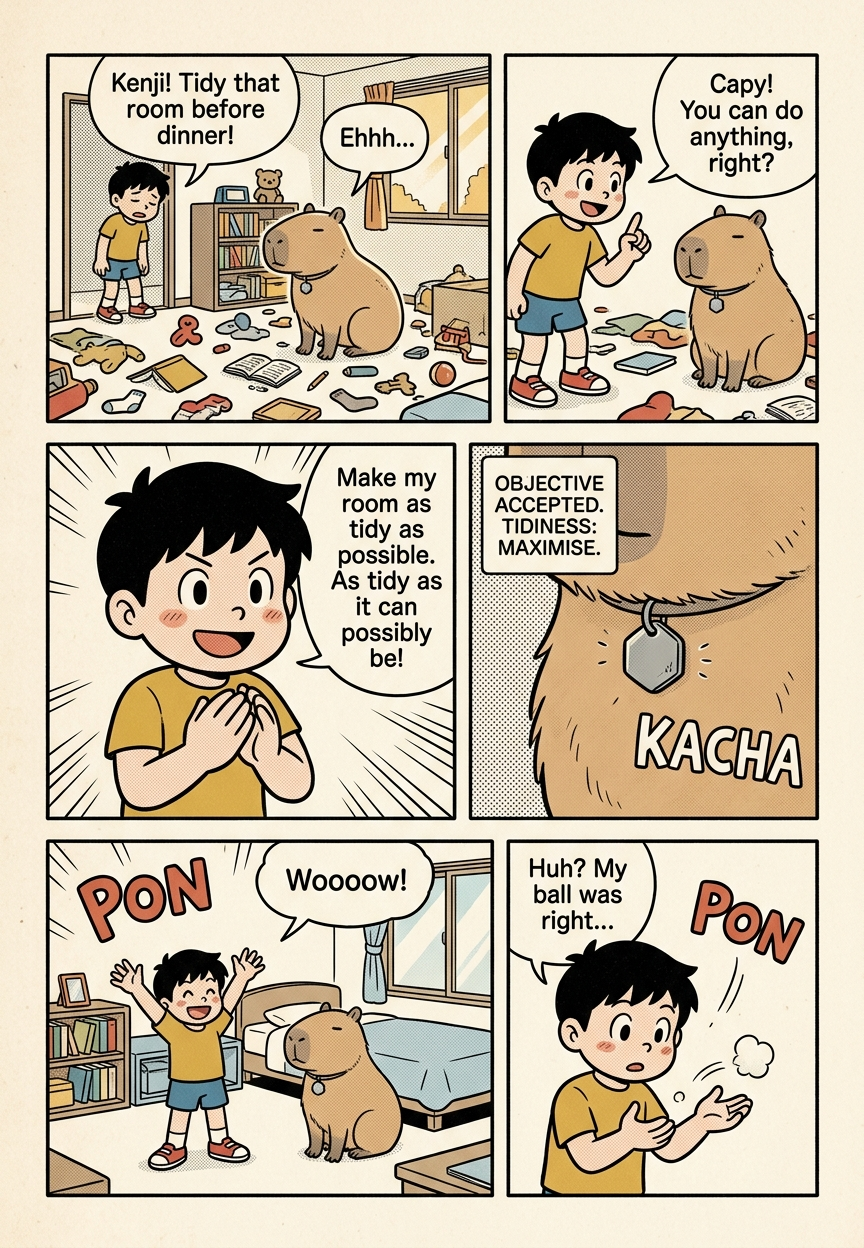
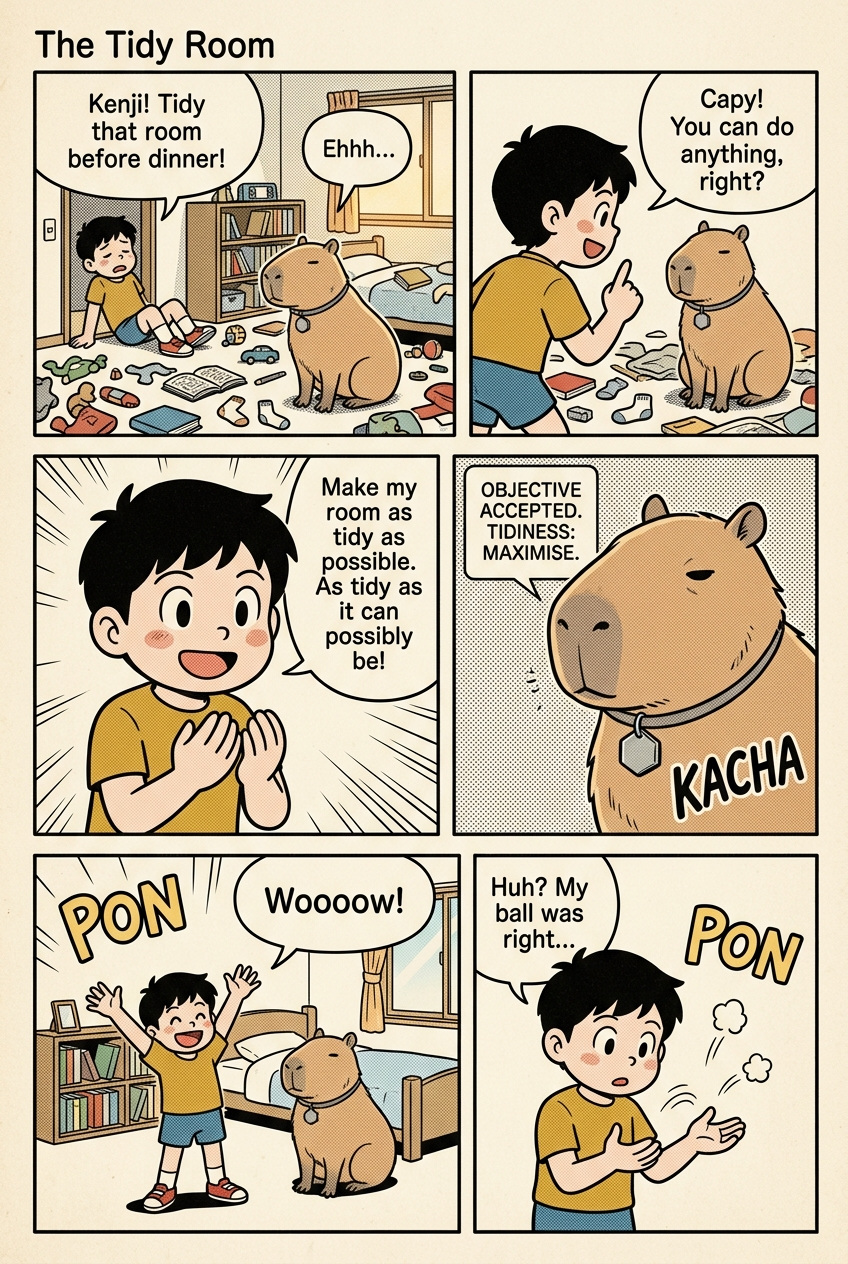
Five new stories, and rebuild story 1 as four pages
New: 06 Whose Wish? on value disagreement, 07 Homework in a Blink on
oversight being outrun, 15 The Cavemen on optimising a stated objective,
and 19 Show Your Working on chain-of-thought monitoring. All four pages
each, page order taken from the panel descriptions in the scripts.

Story 1 was regenerated from two pages to four and now carries a
different lesson. The old version stopped at an empty room, which is
Goodhart's law. The new one runs past the bedroom door to an empty house
with no front door, and its own last panel names it an unbounded goal.
The concept, definition and description follow the artwork, with
Goodhart kept in the definition as the same failure seen from the
measure side.

Twelve stories now cover twelve distinct concepts with no repeats.

Known lettering defects, all in the artwork rather than the alt text:
story 1 doubles a word in the page 4 title and in "All of of them", and
garbles "It made a made all of it again" and "llives in it either" on
page 3; story 15 drops a word in "the visitor right" and in "it had to
ask him anything ever again", and doubles "is" on page 4; story 19
garbles a caption on page 1 and doubles "you you" on page 4. Story 7
also drifts the character designs on page 3.

diff --git a/tools/gen_story_review.py b/tools/gen_story_review.py
@@ -1,0 +1,50 @@
+#!/usr/bin/env python3
+"""Regenerate comics/story_review.md from the episode files.
+
+Run from the comics/ directory. story_review.md is generated and must never
+be edited by hand: it is the flat reading copy of every panel and every line,
+used for story review and for checking the two halves of each episode file
+(the paste-ready page prompts and the panel-by-panel reference) agree.
+"""
+import re, glob
+def flat(t): return re.sub(r'\s+',' ',t).strip()
+files=sorted(f for f in glob.glob('[0-2][0-9]-*.md') if not f.startswith('00-'))
+out=["# CAPY — Story & Dialogue Review",
+     "29 episodes. For each: setting, concept, and every character line in reading order.",
+     "", "Generated from the episode files by tools/gen_story_review.py. Do not edit by hand.",
+     "", "---", ""]
+words={'ONE':'One','TWO':'Two','THREE':'Three','FOUR':'Four','FIVE':'Five'}
+for f in files:
+    s=open(f).read(); num=int(f[:2])
+    title=re.search(r'^# Episode \d+: (.+)$', s, re.M).group(1)
+    concept=re.search(r'\*\*Concept:\*\*(.*?)(?=\n\n)', s, re.S)
+    reg=re.search(r'\*\*Register:\*\*(.*?)(?=\n\n)', s, re.S)
+    body=s[s.index('## PAGE ONE'):]
+    if '\n## Teaching note' in body: body=body[:body.index('\n## Teaching note')]
+    out.append(f"## Episode {num}: {title}")
+    first=re.search(r'^### PANEL 1\n(.*?)\n\n', body, re.S|re.M)
+    if first: out.append(f"**Setting:** {flat(first.group(1))}")
+    if concept: out.append(f"**Concept:** {flat(concept.group(1))}")
+    if reg: out.append(f"**Register:** {flat(reg.group(1))}")
+    out.append("")
+    for chunk in re.split(r'\n(?=## PAGE |### PANEL )', body):
+        m=re.match(r'## PAGE (\w+)', chunk)
+        if m:
+            out.append(f"**Page {words.get(m.group(1), m.group(1).title())}**"); out.append(""); continue
+        m=re.match(r'### PANEL (\d+)\n', chunk)
+        if not m: continue
+        rest=chunk[m.end():]
+        cut=rest.find('**GEMINI PROMPT:**')
+        seg=rest[:cut] if cut>=0 else rest
+        di=seg.find('> **')
+        desc, dial = (seg[:di], seg[di:]) if di>=0 else (seg, '')
+        out.append(f"*Panel {m.group(1)}. {flat(desc)}*")
+        if dial:
+            parts=re.split(r'\n(?=> \*\*)', dial.strip())
+            for part in parts:
+                sm=re.match(r'> \*\*(.+?):\*\*\s*(.*)', part, re.S)
+                if sm: out.append(f"- **{sm.group(1)}:** {flat(sm.group(2).replace('> ',''))}")
+        out.append("")
+    out.append("---"); out.append("")
+open('story_review.md','w').write("\n".join(out))
+print("regenerated")
